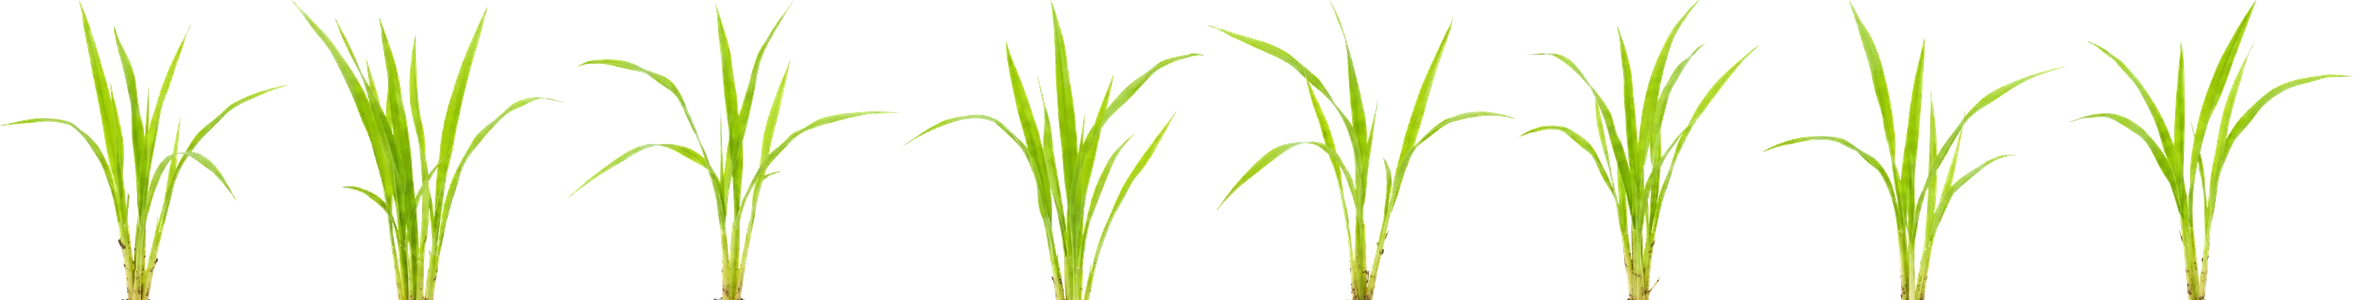
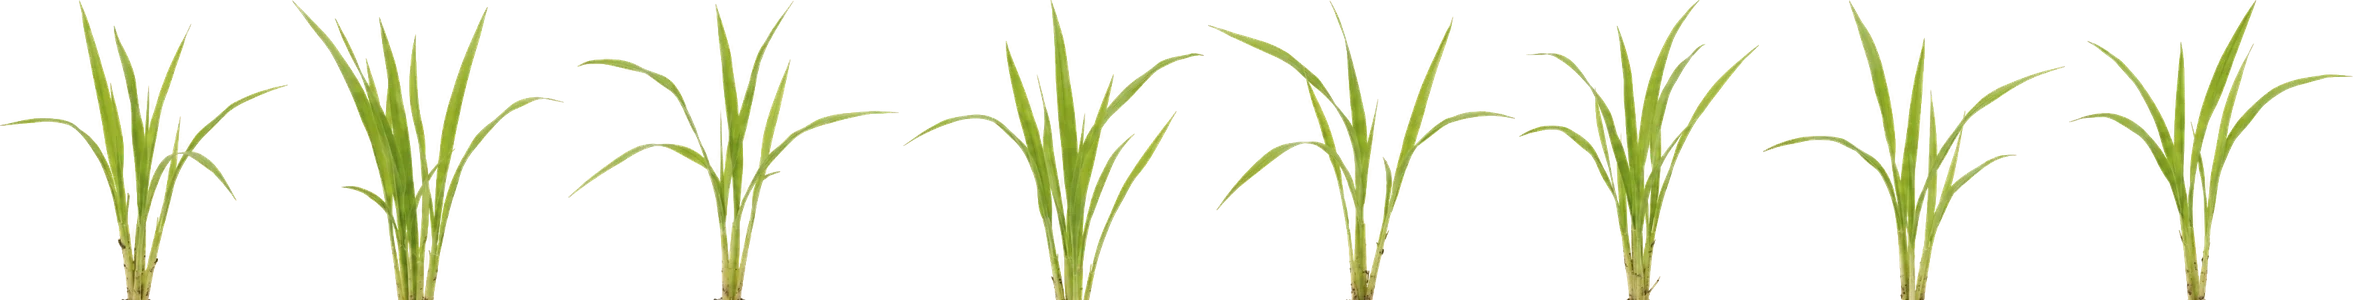
404: words stay clear of the photo's mist, no focus box on click, bigger 404 with field spacing, seedlings toned to the morning light

diff --git a/magasaka-waitlist-fullquality/404.html b/magasaka-waitlist-fullquality/404.html
@@ -20,19 +20,19 @@ header{align-self:stretch;padding:calc(env(safe-area-inset-top,0px) + 30px) clam
 .logo{display:inline-block;width:154px;height:20px;color:var(--ink)}
 .logo svg{display:block;width:100%;height:100%}
 .logo svg path[fill]{fill:currentColor}
-.head{display:flex;flex-direction:column;align-items:center;gap:12px;text-align:center;padding:24px 20px 0}
+.head{position:relative;z-index:2;display:flex;flex-direction:column;align-items:center;gap:12px;text-align:center;padding:24px 20px 0}
 .eyebrow{margin:0;font-size:13px;letter-spacing:.1em;text-transform:uppercase;color:#958d84}
 h1{margin:0;font-weight:500;font-size:clamp(34px,4.4vw,58px);line-height:1.04;letter-spacing:-.03em}
 /* the paddy, in the middle of everything; its misty edges melt into the page */
-.stage{position:relative;width:min(1080px,96vw);aspect-ratio:1600/1195;margin-top:-1.5%}
+.stage{position:relative;z-index:1;width:min(1080px,96vw);aspect-ratio:1600/1195;margin:4px 0 -2%}
 .stage canvas{position:absolute;inset:0;width:100%;height:100%;display:block;cursor:crosshair;touch-action:manipulation;
-  -webkit-mask-image:radial-gradient(ellipse 58% 60% at 50% 50%,#000 72%,transparent 100%);mask-image:radial-gradient(ellipse 58% 60% at 50% 50%,#000 72%,transparent 100%)}
+  -webkit-mask-image:radial-gradient(ellipse 56% 54% at 50% 50%,#000 70%,transparent 100%);mask-image:radial-gradient(ellipse 56% 54% at 50% 50%,#000 70%,transparent 100%)}
 .stage canvas:focus-visible{outline:none}
-.stage:focus-within::after{content:"";position:absolute;inset:6% 4%;border-radius:24px;outline:2px solid var(--ink);outline-offset:4px;pointer-events:none}
+.stage:has(canvas:focus-visible)::after{content:"";position:absolute;inset:6% 4%;border-radius:24px;outline:2px solid var(--ink);outline-offset:4px;pointer-events:none}
 .hint{position:absolute;left:50%;bottom:4%;transform:translateX(-50%);margin:0;padding:7px 14px;border-radius:100px;background:rgba(255,255,255,.72);
   -webkit-backdrop-filter:blur(6px);backdrop-filter:blur(6px);font-size:13px;color:#4b4741;white-space:nowrap;pointer-events:none;transition:opacity .6s}
 .hint.is-gone{opacity:0}
-.foot{display:flex;flex-direction:column;align-items:center;gap:22px;text-align:center;padding:0 20px 40px;margin-top:-2%;position:relative}
+.foot{display:flex;flex-direction:column;align-items:center;gap:22px;text-align:center;padding:0 20px 40px;position:relative;z-index:2}
 .sub{margin:0;color:var(--muted);font-size:clamp(16px,1.3vw,18px);max-width:480px}
 .juan{display:flex;align-items:flex-end;justify-content:center;gap:12px;min-height:56px}
 .juan svg{flex:none;width:48px;height:48px;border-radius:50%;background:radial-gradient(circle at 32% 26%,#4f7a36 0%,#2f4f22 55%,#1c3314 100%);box-shadow:0 10px 24px -10px rgba(20,40,10,.6)}
@@ -53,8 +53,7 @@ footer{margin-top:auto;padding:0 20px calc(env(safe-area-inset-bottom,0px) + 24p
 footer a{color:inherit}
 @media (max-width:640px){
   .head{padding-top:28px}
-  .stage{width:128vw;margin-top:-4%}
-  .foot{margin-top:-6%}
+  .stage{width:118vw;margin:0 0 -4%}
 }
 @media (prefers-reduced-motion: reduce){.juan svg .mj__eyes{animation:none}.btn,.bubble{transition:none}}
 </style>
@@ -154,9 +153,9 @@ footer a{color:inherit}
       const off = document.createElement('canvas'); off.width = 640; off.height = 300;
       const o = off.getContext('2d');
       o.textAlign = 'center'; o.textBaseline = 'middle'; o.font = '800 270px "Inter Display","Inter",Arial,sans-serif'; o.fillText('404', 320, 158);
-      const d = o.getImageData(0, 0, 640, 300).data, pts = [], step = 17;
+      const d = o.getImageData(0, 0, 640, 300).data, pts = [], step = 22;
       for (let y = 4; y < 300; y += step) for (let x = 4; x < 640; x += step)
-        if (d[(y * 640 + x) * 4 + 3] > 120) pts.push({u: .14 + x / 640 * .72 + rnd(-.004, .004), v: .1 + y / 300 * .74 + rnd(-.004, .004)});
+        if (d[(y * 640 + x) * 4 + 3] > 120) pts.push({u: .08 + x / 640 * .84 + rnd(-.005, .005), v: .08 + y / 300 * .8 + rnd(-.005, .005)});
       pts.sort((a, b) => a.v - b.v || a.u - b.u);
       const now = performance.now() + 400;
       pts.forEach((p, i) => seeds.push(seed(p.u, p.v, reduce ? 0 : now + i * 14)));
@@ -167,7 +166,7 @@ footer a{color:inherit}
       if (grow <= 0) return;
       const e = 1 - Math.pow(1 - grow, 3);
       const p = proj(sd.u, sd.v), [fx, fw] = SHEET.frames[sd.f];
-      const hpx = W * .075 * p.s * sd.h * e, wpx = hpx * fw / SHEET.h;
+      const hpx = W * .068 * p.s * sd.h * e, wpx = hpx * fw / SHEET.h;
       const dx = p.x - mouse.x, dy = (p.y - hpx * .5) - mouse.y, dist = Math.hypot(dx, dy);
       const push = dist < 110 ? (1 - dist / 110) * Math.sign(dx || 1) * .35 : 0;
       const wind = reduce ? 0 : Math.sin(now * .0014 + sd.u * 6 + sd.v * 3 + sd.ph) * .07 + Math.sin(now * .0037 + sd.ph) * .02;
